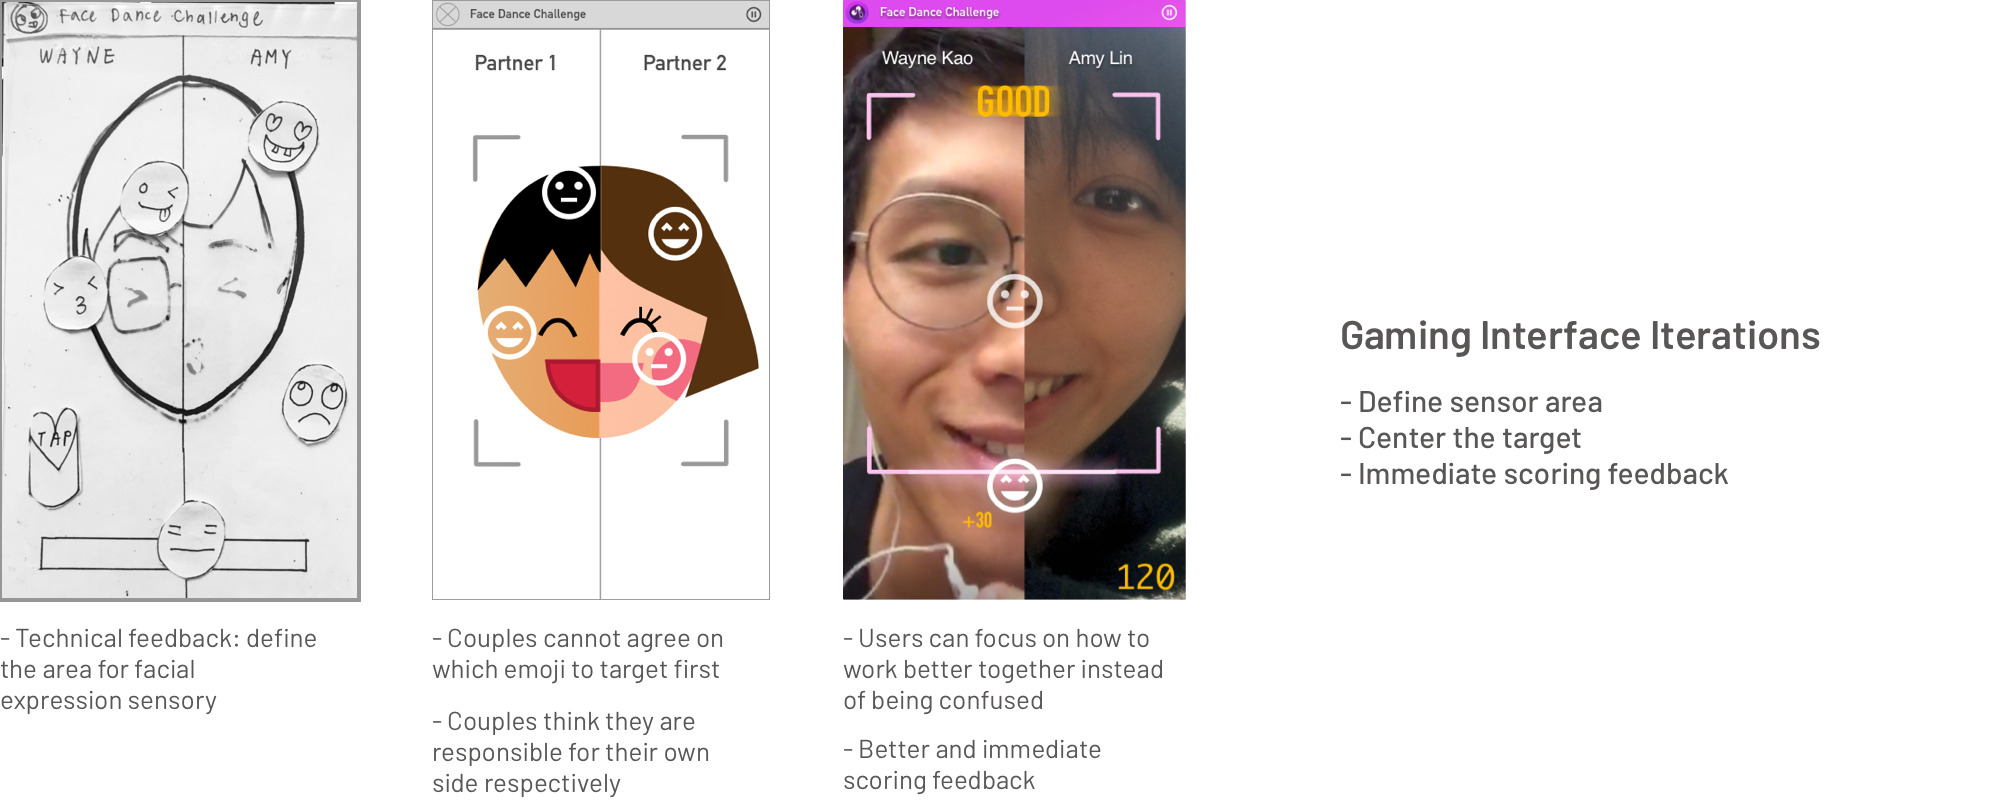
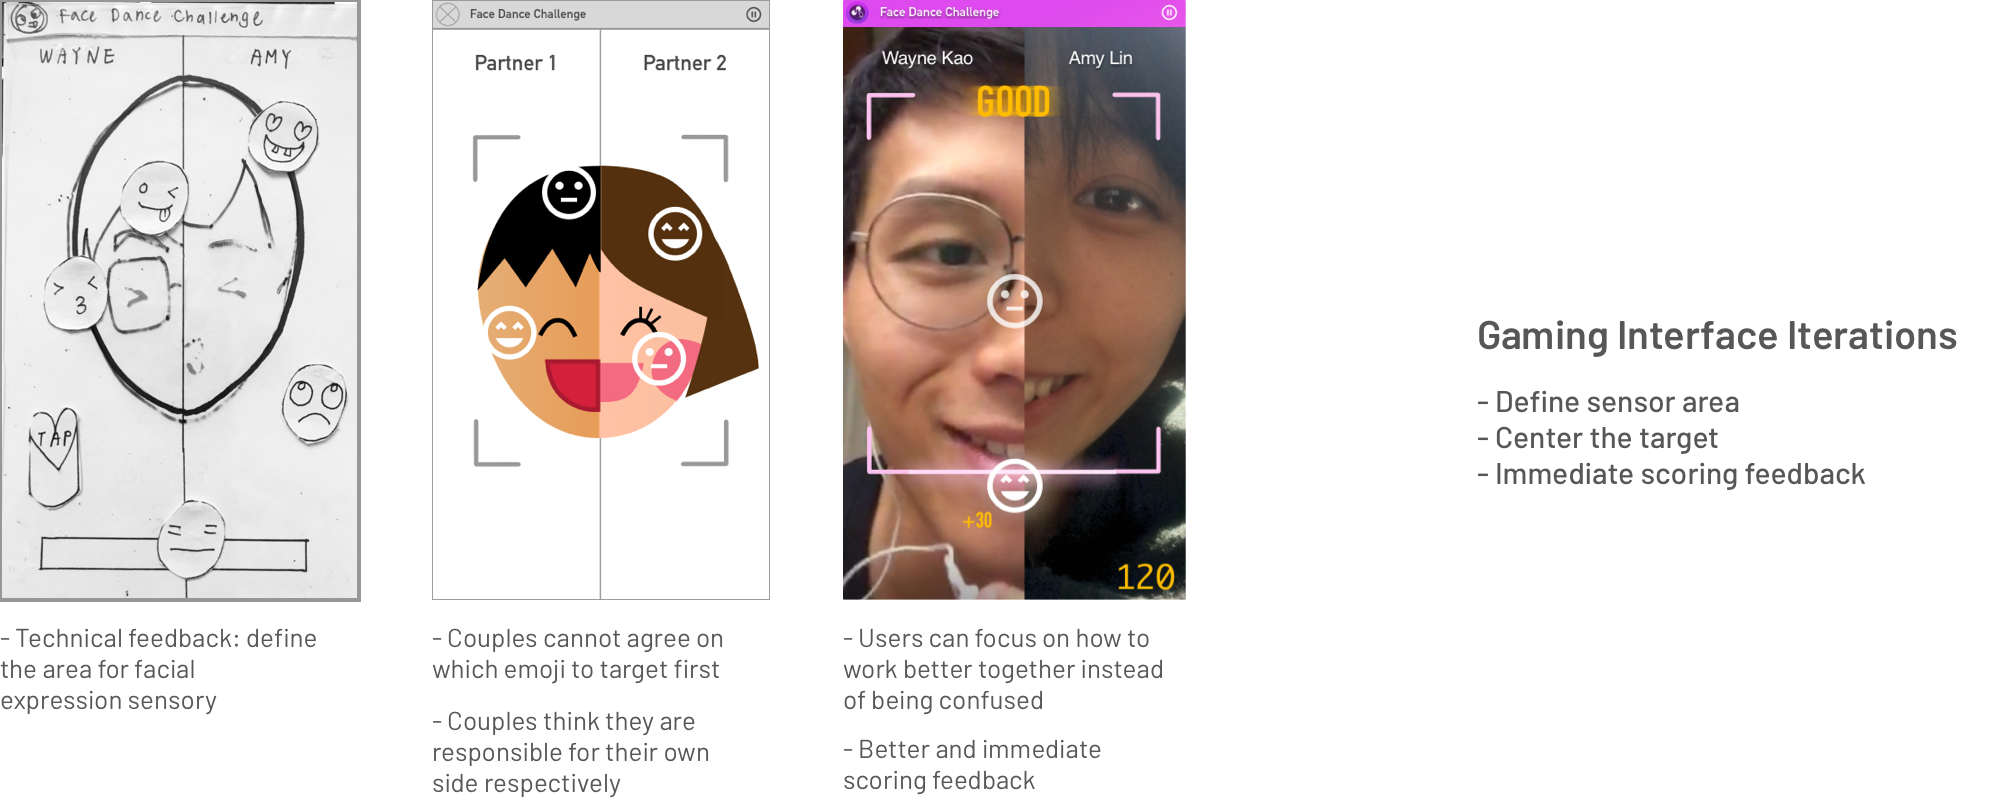
updates

Changed region(s): [[0.6844, 0.4676, 0.9333, 0.6234], [0.6533, 0.4052, 0.9955, 0.4364]]

diff --git a/FDC.html b/FDC.html
@@ -78,7 +78,8 @@
                     <div class="group1">
                         <div class="info" id="info1">
                             <h5>Type</h5>
-                            <ul class="info"> <!-- none -->
+                            <ul class="info">
+                                <!-- none -->
                                 <li>Individual Work</li>
                                 <li>Interaction Design</li>
                                 <!-- <li>Individual Project</li> -->
@@ -102,7 +103,8 @@
                         <div class="group3">
                             <div class="info" id="info4">
                                 <h5>What I Did</h5>
-                                <ul class="info"> <!-- none -->
+                                <ul class="info">
+                                    <!-- none -->
                                     <li>Comparative Analysis</li>
                                     <li>Semi Diary Study</li>
                                     <li>Interaction Design</li>
@@ -209,21 +211,25 @@
                 <h4>Major Design Changes</h4>
                 <p> With the feedback and takeaways from the user tests, I then move on to hi-fi prototyping and design iterations, with an eye to creating a joyful gaming experince:</p>
                 <img src="img/portfolio/iteration_1.png" alt="gaming interface">
-                
+                <br>
+                <img src="img/portfolio/iteration_3.png" alt="loading interface">
                 <!-- <p>In the original design, the emoji would fly into the screen vertically from the bottom side of the screen. Since my user was <strong>confused about how to react when she saw an emoji flying on the other side of the screen,</strong> I decided that emoji would always fly in the middle from the bottom, <i>which sacrifice the level of difficulty but improves the interaction.</i> </p> -->
                 <!-- <h4>Iterations</h4>
                 <p>From the brainstorming to prototyping, <strong>I’m always thinking about my design.</strong> Whenever I have a new idea in my mind, I always talk to my boyfriend about it and discuss the pros and cons of it. Especially when I’m working on high-fi prototypes, I <strong>come up with new designs every day</strong> and usually spend more than a half of prototyping time to refine the design I made earlier. Generating new ideas every day was hard; however, it turned out that I do have <strong>made a lot of breakthroughs in terms of the visual representation as well as the interactions between screens and users.</strong> For instance, at first, the only way for my users to switch between screens was by tapping on the space on the screen but as I discovered more about InVision, I eventually <i>set timer to switch between screens to make the motion of flying emoji much similar to how it would work in reality. </i></p> -->
-                <h4>One Step Further</h4>
+                <!-- <h4>One Step Further</h4>
                 <img class="img-responsive" src="img/portfolio/incentives.png" alt="design philosophy">
                 <h6>Incentive-increasing features</h6>
-                <p>My design philosophy has always been <strong>“People respond to incentives.”</strong> Aside from maintaining consistency across the whole project, I always think one step further as of how to <strong>make my design appealing and attractive in the long run.</strong> Thus, an explicit feature that has to do with incentive-creating is the mechanism that <strong>couples can unlock more interactions as they score more points.</strong> Additionally, I add another line of word hinting the users on how far they are from the new interaction. Other than that, I want to <strong>avoid LDR couples who play FDC to fight because of the game.</strong> Thus, the mechanism of the game itself awards good teamwork but <strong>if only one of the couple performs well, they can still gain points.</strong> Through this scoring mechanism, I would like to convey the message that though it’s perfect that we, as a couple, can work well together, if it turns out to be just the opposite, it’s still okay because <strong>one’s strength can help make up for the other’s weakness.</strong></p>
+                <p>My design philosophy has always been <strong>“People respond to incentives.”</strong> Aside from maintaining consistency across the whole project, I always think one step further as of how to <strong>make my design appealing and attractive in the long run.</strong> Thus, an explicit feature that has to do with incentive-creating is the mechanism that <strong>couples can unlock more interactions as they score more points.</strong> Additionally, I add another line of word hinting the users on how far they are from the new interaction. Other than that, I want to <strong>avoid LDR couples who play FDC to fight because of the game.</strong> Thus, the mechanism of the game itself awards good teamwork but <strong>if only one of the couple performs well, they can still gain points.</strong> Through this scoring mechanism, I would like to convey the message that though it’s perfect that we, as a couple, can work well together, if it turns out to be just the opposite, it’s still okay because <strong>one’s strength can help make up for the other’s weakness.</strong></p> -->
                 <h4>Final Screens</h4>
                 <img class="img-responsive img-centered" src="img/portfolio/FDC_final_screens.jpg" alt="final screens">
                 <h4>Impact</h4>
-                <p>The societal impact I would like to make on couples in LDR is that there’s <strong>no need to be afraid of the distance between them</strong> and their special ones and <strong>it’s okay to run out of things to share</strong> during video-chat. LDR couples are no different from ordinary couples. Though reminiscing the good old days helps them go through the dark lonely nights, <strong>couples can still create new memories in spite of being physically apart.</strong> </p>
-                <p> Through my design, I want to <strong>inspire more potential or future design for LDR couples</strong> as during my competitive analysis, I found that there’s less existing digital solutions designed just for LDR couples. </p>
+                <p>The social impact I would like to make is that:</p>
+                <ol>
+                    <li>There's no need to be afraid of the distance -- you're not alone and FDC is here to help!</li>
+                    <li>Inspire more desisgners to work on solutions that targets LDR couples.</li>
+                </ol>
                 <h4>Takeaways</h4>
-                <p>The hardest part of going through the design process is not design itself. Instead, for me, it’s <strong>conquering the fear of falling behind.</strong> I’m really fortunate to have Tonya as my instructor to boost me up when I felt that I could not see my strength in the field of information with an economics background. However, as it turned out, my past-4-year <strong>training in economics does help me think more thoroughly and go one step forward to consider the long-run effect of my product.</strong></p>
+                <p>User-testing and iterations are super important in the design process. Even though I was constantly thinking about how I can sharpen my design while ideating and prototyping, I still neglected several integral parts of design such as interaction consistency. Also, I wish I had conducted 2nd user-testing after the iterations were implemented.</p>
                 <!--             <h4>Shih-Ting (Amy) in FDC</h4>
             <h5>My Role</h5>
             <ul>
